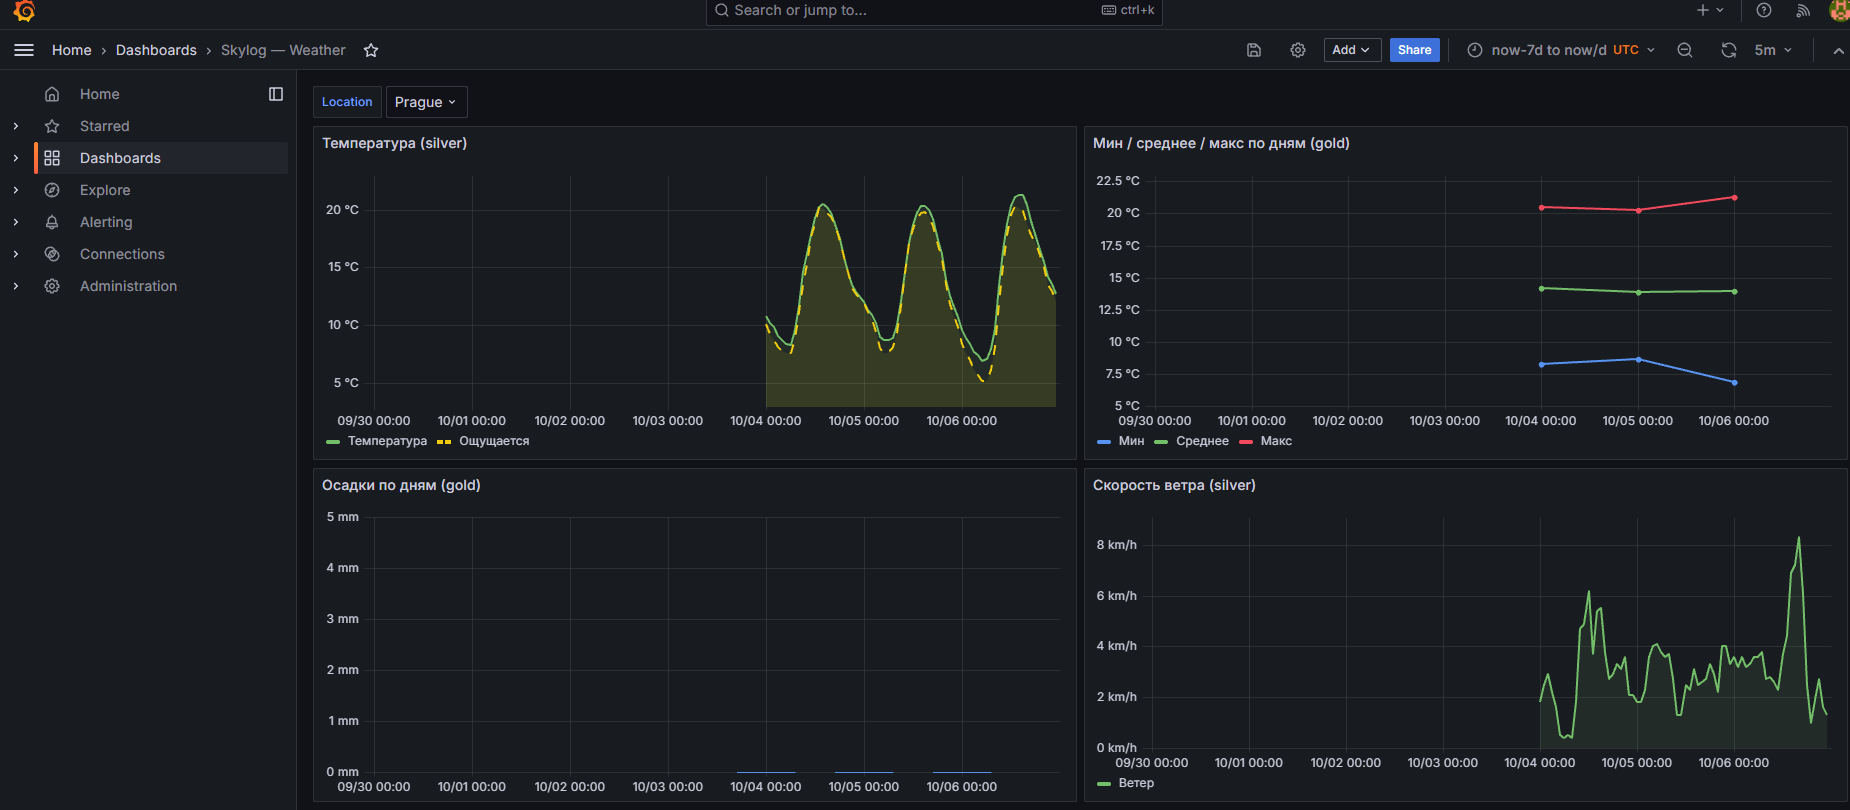
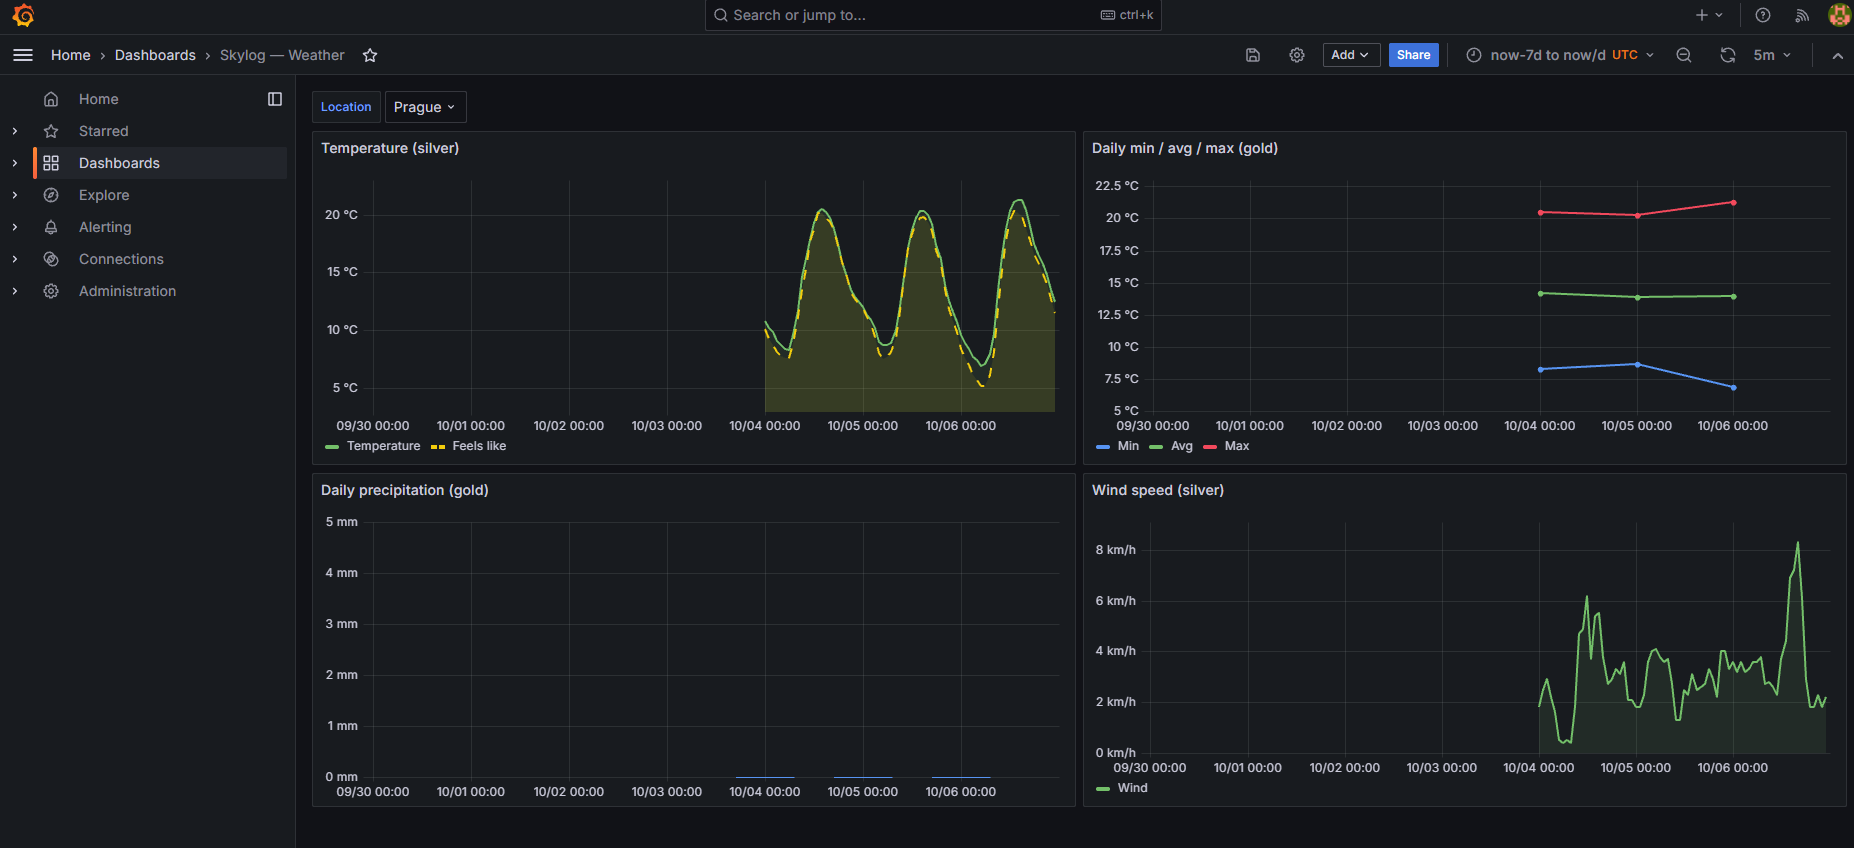
Retry transient API errors with backoff; refresh dashboard screenshot

diff --git a/pipeline/extract.py b/pipeline/extract.py
@@ -1,12 +1,38 @@
 import json
+import logging
+import time
 
 import requests
 
 from db import get_conn
 
+log = logging.getLogger(__name__)
+
 API_URL = 'https://api.open-meteo.com/v1/forecast'
 HOURLY = ('temperature_2m,apparent_temperature,relative_humidity_2m,'
           'precipitation,wind_speed_10m,wind_direction_10m,weather_code')
+
+ATTEMPTS = 4
+BASE_DELAY = 2                            # seconds; doubles each retry: 2, 4, 8
+RETRY_STATUS = {429, 500, 502, 503, 504}  # transient server-side errors
+
+
+def fetch(params: dict) -> dict:
+    """GET the API, retrying timeouts, connection errors and transient 5xx/429."""
+    for attempt in range(1, ATTEMPTS + 1):
+        try:
+            resp = requests.get(API_URL, params=params, timeout=10)
+            resp.raise_for_status()
+            return resp.json()
+        except (requests.Timeout, requests.ConnectionError, requests.HTTPError) as e:
+            retryable = (not isinstance(e, requests.HTTPError)
+                         or e.response.status_code in RETRY_STATUS)
+            if not retryable or attempt == ATTEMPTS:
+                raise
+            delay = BASE_DELAY * 2 ** (attempt - 1)
+            log.warning(f'API request failed ({e.__class__.__name__}), '
+                        f'retry {attempt}/{ATTEMPTS - 1} in {delay}s')
+            time.sleep(delay)
 
 
 def extract(location: str, latitude: float, longitude: float) -> int:
@@ -19,13 +45,12 @@ def extract(location: str, latitude: float, longitude: float) -> int:
         'forecast_days': 1,
         'timezone': 'UTC',    # otherwise times arrive in local time with no offset
     }
-    resp = requests.get(API_URL, params=params, timeout=10)
-    resp.raise_for_status()
+    data = fetch(params)
 
     with get_conn() as conn, conn.cursor() as cur:
         cur.execute(
             """INSERT INTO bronze.weather_raw (location, latitude, longitude, raw_data)
                VALUES (%s, %s, %s, %s) RETURNING id""",
-            (location, latitude, longitude, json.dumps(resp.json())),
+            (location, latitude, longitude, json.dumps(data)),
         )
         return cur.fetchone()[0]

diff --git a/README.md b/README.md
@@ -37,6 +37,7 @@ flowchart LR
 - **Idempotent runs.** Silver and gold use `INSERT ... ON CONFLICT DO UPDATE`, so re-running never duplicates data and forecast hours get refined by later runs.
 - **Self-healing backfill.** Each run requests yesterday + today (`past_days=1`), so a missed run doesn't leave a gap, and gold re-aggregates the last 3 days.
 - **UTC everywhere.** The API is queried with `timezone=UTC` and the DB session is pinned to UTC, avoiding the classic local-time-stored-as-UTC shift.
+- **Resilient API calls.** Timeouts, connection errors and transient 5xx/429 responses are retried with exponential backoff (2 s, 4 s, 8 s); permanent errors such as 404 fail immediately.
 - **Failure isolation.** One city failing doesn't stop the others; the run still exits with an error so it is visible in the logs.
 - **Production-aware Docker setup.** `depends_on` with `service_healthy`, cron environment explicitly exported (cron doesn't inherit container env), logs routed to `docker compose logs`.
 - **Small-server tuning.** PostgreSQL `shared_buffers`/`work_mem` capped, 1 GB swap added, and the image is built in CI instead of on the 1 GB server (a prod compose override swaps `build` for `image`).
